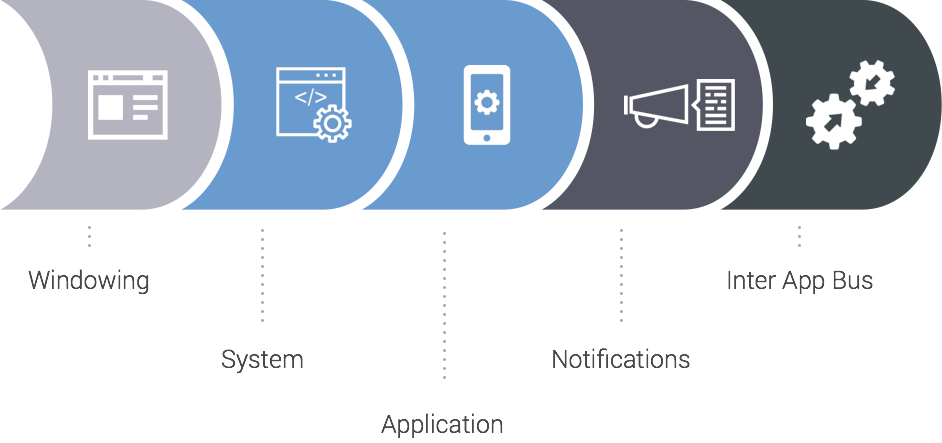
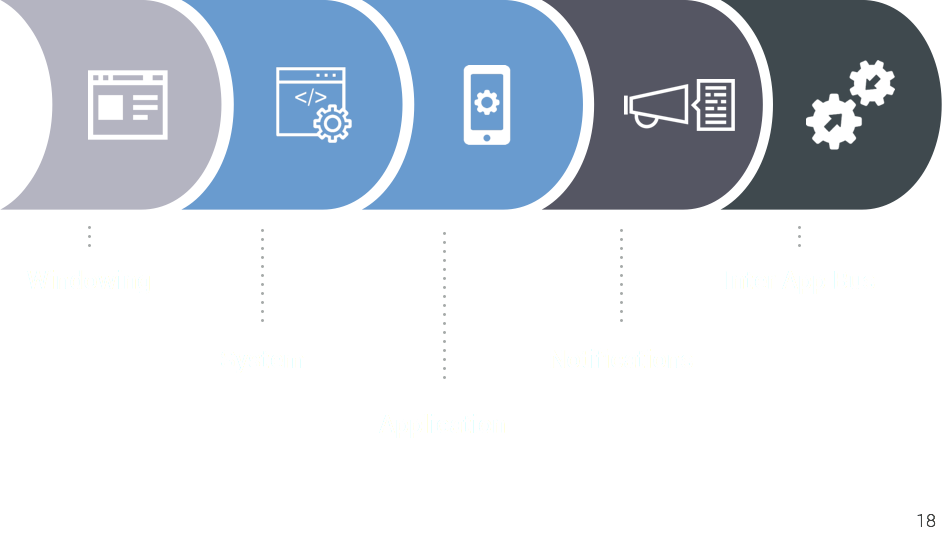
webinar changes

diff --git a/public/index.html b/public/index.html
@@ -6,7 +6,7 @@
 		<title>OpenFin API Demos</title>
 
 		<link rel="stylesheet" href="bower_components/reveal.js/css/reveal.css">
-		<link rel="stylesheet" href="bower_components/reveal.js/css/theme/white.css">
+		<link rel="stylesheet" href="bower_components/reveal.js/css/theme/black.css">
 
 		<!-- Theme used for syntax highlighting of code -->
 		<link rel="stylesheet" href="bower_components/reveal.js/lib/css/zenburn.css">
@@ -116,7 +116,7 @@
 
 		<div class="reveal">
 			<div class="slides">
-				<section style="background:white;">
+				<section>
 					<img src="img/openfin-logo.png" style="border:0;box-shadow:0 0 0px;">
 
 						<div style="font-size:32px;width=100%;text-align:center;">
@@ -129,6 +129,7 @@
 					<div style="width:60%;float:right">
 						<div style="text-align:left;">
 						<h2>Nicholas Kolba</h2>
+						<div>nick@openfin.co / @nkolba</div>
 						<ul>
 								<li>Director of Ecosystem, OpenFin</li>
 								<li>Formerly at TR as Director of Technology on Eikon</li>
@@ -141,15 +142,50 @@
 				<section>
 						<h2>a brief history</h2>
 						<img src="img/history.png">
+						<aside class="notes">
+							The WEB is kind of shockingly young when you think about it.
+							Especially when we consider that a lot of the technology that underlies what we would think of as the modern Web
+							is only around 10 years old of less.
+							But deep roots were layed in the beginning that have allowed the web to thrive and fend off challenges that would have
+							taken us into a proprietary world of siloed tech like flash or silverlight.
+							In just the past few years - we've seen this huge emergence of Javascrpt as ... kind of the most powerful language in the world
+							as well as web technologies like Javascript and HTML finding their way into all sorts of places we would never have imagined them previously
+							 like the server and installed desktop applications.
+						</aside>
 				</section>
 				<section>
 						<h2>what is openfin?</h2>
 						<img src="img/whatis.png">
 				</section>
+
+
 				<section>
-						<h2 style="margin-bottom:0px;">key benefits</h2>
-						<div style="color:#999;">Desktop experience powered by the Web</div>
-						<img src="img/benefits.png">
+					<h2>Financial Desktop Apps Today</h2>
+				</section>
+
+				<section>
+						<div style="background-image:url(img/desktop-today.png);height:700px;background-repeat:no-repeat;">
+						</div>
+						<aside class="notes">Traditional installed applications (Java, .Net, C++) still dominate the financial desktop, and not without reason.   Enterprise constraints on browsers, along with critical functional gaps in commercial browsers, are real non-starters in many cases.  Native/installed desktop apps bring powerful features to the table, but they also face enormous downsides, particularly around agility of deployment and updating.</aside>
+				</section>
+
+
+				<section>
+					<h2>The OpenFin Desktop</h2>
+				</section>
+
+				<section>
+						<div style="background-image:url(img/desktop-future.png);height:700px;background-repeat:no-repeat;">
+						</div>
+						<aside class="notes">The best of both worlds.  Native experience, but with web security and deployment models baked in.  We also want cross-platform - which we’re used to in the web world, as well as inter-operability between apps on the same client - something that is pretty common with native financial platforms but a web security model can unlock a lot more value here.</aside>
+				</section>
+				<section
+				<section>
+					<h2>Key Benefits</h2>
+				</section>
+				<section>
+					<h2>OpenFin API</h2>
+					<img src="img/api.png">
 				</section>
 				<section>
 								<h2 style="">Communication</h2>
@@ -169,7 +205,16 @@
 									(web intents) (D apps)  -- distributed apps
 								</aside>
 				</section>
+				<section>
+					<h2>Security</h2>
+					<ul>
+						<li>Security Sandbox</li>
+						<li>Group Policy</li>
+						<li>Signed Code Packages</li>
+						<li>Strong Application Identity</li>
+					</ul>
 
+				</section>
 				<section data-background-image="img/packaging.png" data-background-size="33%" data-background-position="right">
 					<h2>Packaging and Delivery</h2>
 					<ul>
@@ -336,18 +381,17 @@ grunt serve
 
 			</section>
 
-			<section>
-				<h2>API Features</h2>
-				<img src="img/api.png">
-			</section>
+
 
 			<section>
 				<h2>Working with the APIs</h2>
-				<p>OpenFin doesn’t limit what frameworks you can use.  If it works in Chrome, it will work in OpenFin.</p>
-
-				<p>The OpenFin APIs cover only the functionality  commercial browsers don’t.  This ensures that the amount of OpenFin specific code in an app is limited.</p>
-
-				<p>We recommend wrapping app-specific  touch points to OpenFin APIs using the framework of choice.</p>
+				<ul>
+					<li>If it works in Chrome, it will work in OpenFin.</li>
+					<li>The OpenFin APIs only cover what browsers don’t.</li>
+					<li>The amount of OpenFin specific code in an app is limited.</li>
+					<li>OpenFin doesn’t limit what frameworks you can use.</li>
+					<li>Wrap API touch points using the framework of choice.</li>
+				</ul>
 			</section>
 
 				<section>
@@ -462,6 +506,7 @@ var childWindow = new fin.desktop.Window({
     resize: false,
     windowState: "normal",
     autoShow: true,
+		saveWindowState:false,
 		opacity:0
 }, function () {
     console.log("The window has successfully been created");
@@ -880,15 +925,15 @@ document.getElementById("d-bus-unsub").addEventListener("click",function(){
 			</section>
 			<!-- end Inter-App Bus Demos  -->
 
-			<section data-background-image="img/poc.png" data-background-size="75%" data-background-position="bottom">
+			<section>
 				<h2>Building a PoC</h2>
 				<ul>
-					<li><a class="external" data-link="https://openfin.co/development-tools-overview/">Development Tools</a></li>
 					<li><a class="external" data-link="https://github.com/openfin">Our GitHub Repository</a></li>
 					<li><a class="external" data-link="https://openfin.co/support/release-notes/">General Support Information</a></li>
 					<li><a class="external" data-link="https://www.youtube.com/watch?v=uBuTTAL8A-4">Hello OpenFin Tutorial</a></li>
 					<li><a class="external" data-link="https://github.com/openfin/openfin-training-demo">This Demo</a></li>
 				</ul>
+				<img src="img/poc.png">
 			</section>
 
   	<script src="bower_components/d3/d3.js" charset="utf-8"></script>

diff --git a/public/js/slideFunctions.js b/public/js/slideFunctions.js
@@ -45,9 +45,9 @@ function launchHyperblotter() {
     });
 }
 
-function externalLink(event){
-  var url = event.target.getAttribute("data-link");
-  fin.desktop.System.openUrlWithBrowser(url);
+function externalLink(event) {
+    var url = event.target.getAttribute("data-link");
+    fin.desktop.System.openUrlWithBrowser(url);
 }
 
 var start;
@@ -172,9 +172,9 @@ var mInfo;
             var runtimeVersionNumberContainer = document.querySelector('#runtime-version-number');
 
             var exLinks = document.querySelectorAll(".external");
-            for (var i = 0; i < exLinks.length; i++){
-              let lnk = exLinks[i];
-              lnk.addEventListener("click", externalLink);
+            for (var i = 0; i < exLinks.length; i++) {
+                let lnk = exLinks[i];
+                lnk.addEventListener("click", externalLink);
             }
         };
 
